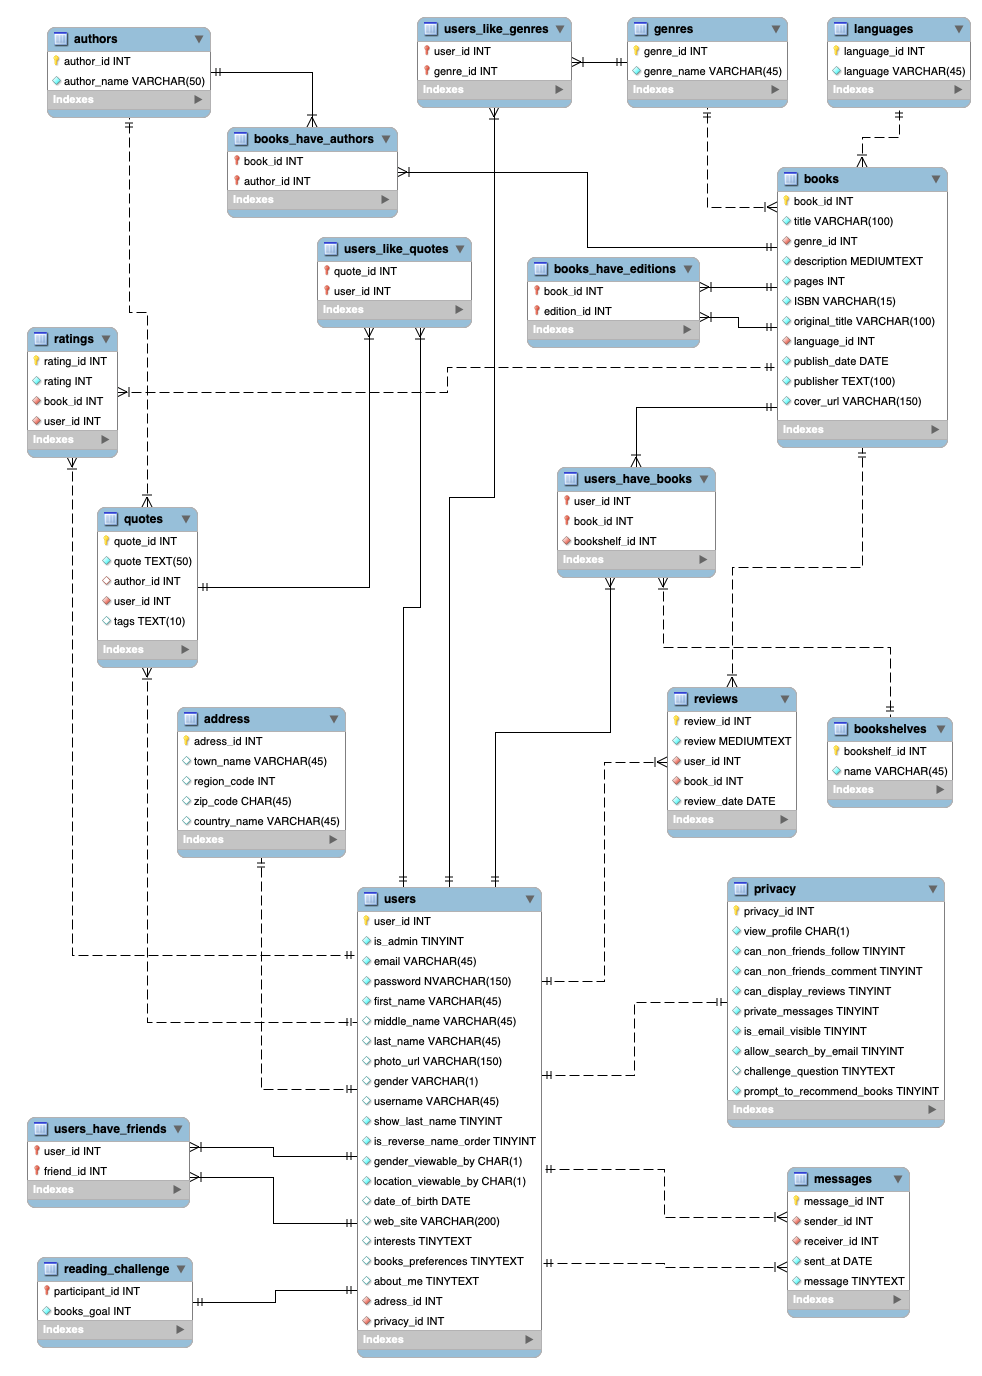
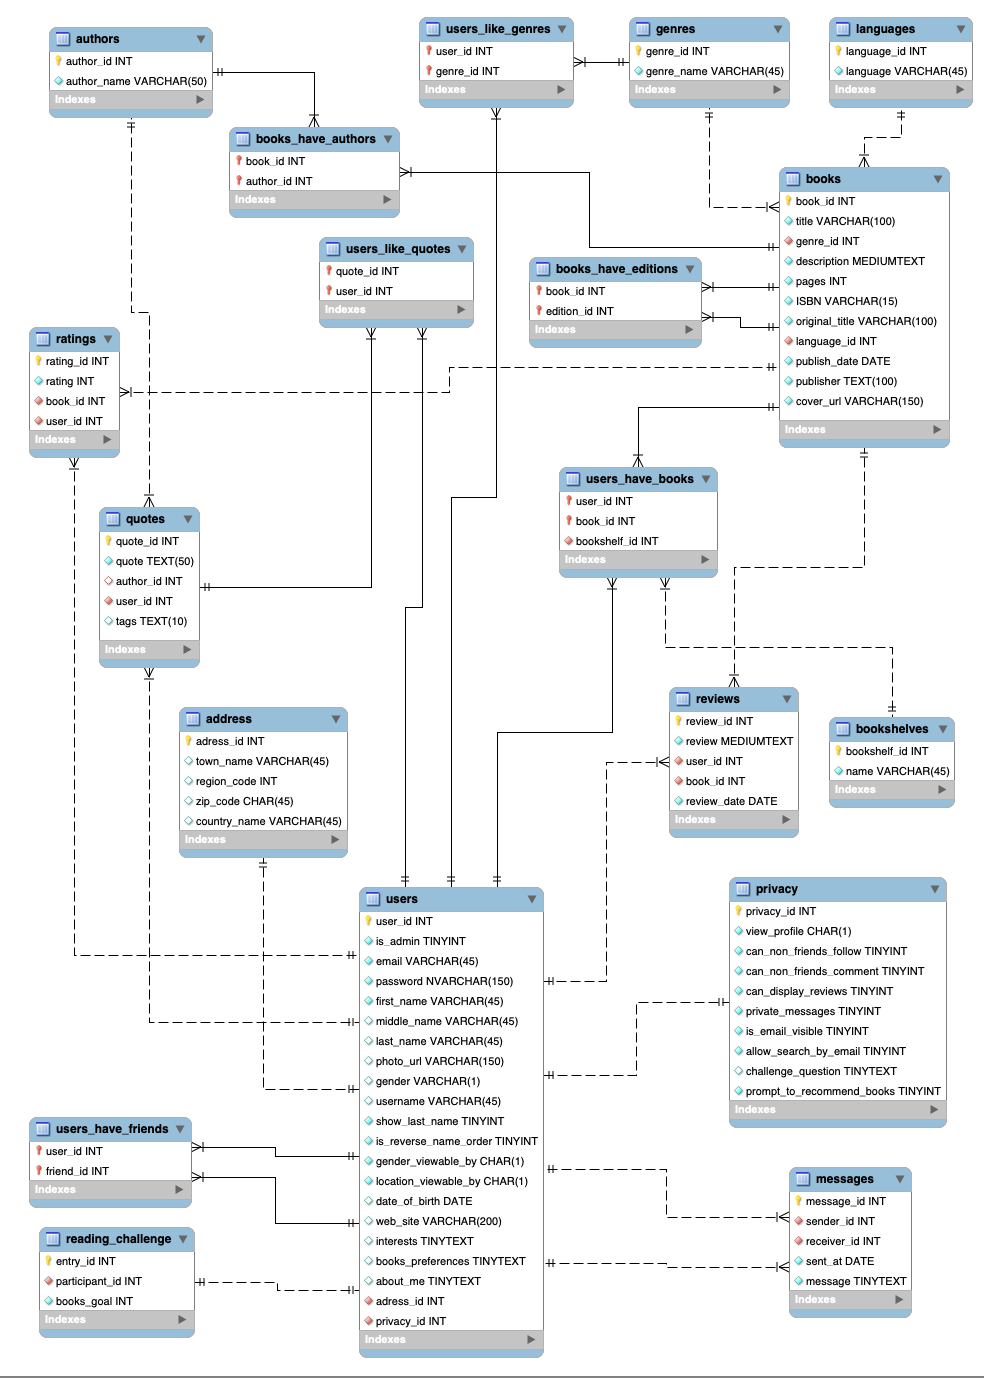
Added id to reading_challenge table, created enterChallenge request

diff --git a/GoodReads/src/main/java/com/example/goodreads/services/ReadingChallengeService.java b/GoodReads/src/main/java/com/example/goodreads/services/ReadingChallengeService.java
@@ -1,0 +1,39 @@
+package com.example.goodreads.services;
+
+import com.example.goodreads.exceptions.BadRequestException;
+import com.example.goodreads.exceptions.NotFoundException;
+import com.example.goodreads.model.dto.readingChallengeDTO.EnterChallengeDTO;
+import com.example.goodreads.model.entities.ReadingChallenge;
+import com.example.goodreads.model.entities.User;
+import com.example.goodreads.model.repository.ReadingChallengeRepository;
+import com.example.goodreads.model.repository.UserRepository;
+import org.springframework.beans.factory.annotation.Autowired;
+import org.springframework.stereotype.Service;
+
+import java.util.Optional;
+
+@Service
+public class ReadingChallengeService {
+    @Autowired
+    private ReadingChallengeRepository readingChallengeRepository;
+    @Autowired
+    private UserRepository userRepository;
+
+    public ReadingChallenge enterChallenge(EnterChallengeDTO entryRequest, long userId) {
+        User user = userRepository.findById(userId).orElseThrow(() -> (new NotFoundException("User not found!")));
+        if (entryRequest.getBooksGoal() < 1) {
+            throw new BadRequestException("Invalid books goal provided!");
+        }
+        Optional<ReadingChallenge> opt = readingChallengeRepository.findReadingChallengeByUser(user);
+        ReadingChallenge entry;
+        if (opt.isPresent()) {
+            entry = opt.get();
+        } else {
+            entry = new ReadingChallenge();
+            entry.setUser(user);
+        }
+        entry.setBooksGoal(entryRequest.getBooksGoal());
+        return readingChallengeRepository.save(entry);
+    }
+
+}

diff --git a/GoodReads/src/main/java/com/example/goodreads/controller/ReadingChallengeController.java b/GoodReads/src/main/java/com/example/goodreads/controller/ReadingChallengeController.java
@@ -1,0 +1,34 @@
+package com.example.goodreads.controller;
+
+import com.example.goodreads.model.dto.readingChallengeDTO.ChallengeResponseDTO;
+import com.example.goodreads.model.dto.readingChallengeDTO.EnterChallengeDTO;
+import com.example.goodreads.model.entities.ReadingChallenge;
+import com.example.goodreads.services.ReadingChallengeService;
+import org.modelmapper.ModelMapper;
+import org.springframework.beans.factory.annotation.Autowired;
+import org.springframework.http.ResponseEntity;
+import org.springframework.web.bind.annotation.PutMapping;
+import org.springframework.web.bind.annotation.RequestBody;
+import org.springframework.web.bind.annotation.RestController;
+
+import javax.servlet.http.HttpServletRequest;
+import javax.servlet.http.HttpSession;
+
+@RestController
+public class ReadingChallengeController extends BaseController {
+
+    @Autowired
+    private ReadingChallengeService challengeService;
+    @Autowired
+    private ModelMapper mapper;
+
+    @PutMapping("/challenge/enter")
+    public ResponseEntity<ChallengeResponseDTO> enterChallenge(@RequestBody EnterChallengeDTO entry,
+                                                               HttpSession session, HttpServletRequest request) {
+        validateSession(session, request);
+        ReadingChallenge ch = challengeService.enterChallenge(entry, (long) session.getAttribute(USER_ID));
+        ChallengeResponseDTO dto = mapper.map(ch, ChallengeResponseDTO.class);
+        return ResponseEntity.ok(dto);
+    }
+
+}

diff --git a/GoodReads/src/main/java/com/example/goodreads/model/entities/ReadingChallenge.java b/GoodReads/src/main/java/com/example/goodreads/model/entities/ReadingChallenge.java
@@ -1,0 +1,29 @@
+package com.example.goodreads.model.entities;
+
+import lombok.AllArgsConstructor;
+import lombok.Getter;
+import lombok.NoArgsConstructor;
+import lombok.Setter;
+
+import javax.persistence.*;
+
+@Getter
+@Setter
+@NoArgsConstructor
+@AllArgsConstructor
+@Entity
+@Table(name = "reading_challenge")
+public class ReadingChallenge {
+
+    @Id
+    @GeneratedValue(strategy = GenerationType.IDENTITY)
+    private long entryId;
+
+    @Column
+    private int booksGoal;
+
+    @OneToOne
+    @JoinColumn(name = "participant_id", referencedColumnName = "user_id")
+    private User user;
+
+}

diff --git a/GoodReads/src/main/java/com/example/goodreads/model/repository/ReadingChallengeRepository.java b/GoodReads/src/main/java/com/example/goodreads/model/repository/ReadingChallengeRepository.java
@@ -1,0 +1,13 @@
+package com.example.goodreads.model.repository;
+
+import com.example.goodreads.model.entities.ReadingChallenge;
+import com.example.goodreads.model.entities.User;
+import org.springframework.data.jpa.repository.JpaRepository;
+
+import java.util.Optional;
+
+public interface ReadingChallengeRepository extends JpaRepository<ReadingChallenge, Long> {
+
+    Optional<ReadingChallenge> findReadingChallengeByUser(User user);
+
+}

diff --git a/GoodReads/src/main/java/com/example/goodreads/model/dto/readingChallengeDTO/ChallengeResponseDTO.java b/GoodReads/src/main/java/com/example/goodreads/model/dto/readingChallengeDTO/ChallengeResponseDTO.java
@@ -1,0 +1,18 @@
+package com.example.goodreads.model.dto.readingChallengeDTO;
+
+import lombok.AllArgsConstructor;
+import lombok.Getter;
+import lombok.NoArgsConstructor;
+import lombok.Setter;
+
+@Getter
+@Setter
+@NoArgsConstructor
+@AllArgsConstructor
+public class ChallengeResponseDTO {
+
+    private long entryId;
+    private long userId;
+    private int booksGoal;
+
+}

diff --git a/GoodReads/src/main/java/com/example/goodreads/model/dto/readingChallengeDTO/EnterChallengeDTO.java b/GoodReads/src/main/java/com/example/goodreads/model/dto/readingChallengeDTO/EnterChallengeDTO.java
@@ -1,0 +1,16 @@
+package com.example.goodreads.model.dto.readingChallengeDTO;
+
+import lombok.AllArgsConstructor;
+import lombok.Getter;
+import lombok.NoArgsConstructor;
+import lombok.Setter;
+
+@AllArgsConstructor
+@NoArgsConstructor
+@Getter
+@Setter
+public class EnterChallengeDTO {
+
+    private int booksGoal;
+
+}
